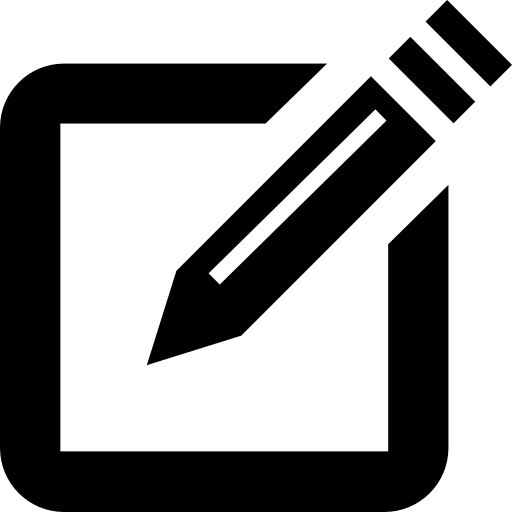
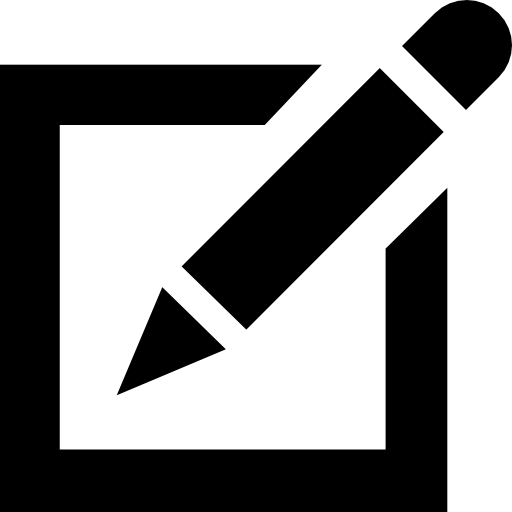
some changes

diff --git a/html/playgroundLayer/profile.html b/html/playgroundLayer/profile.html
@@ -8,10 +8,10 @@
     <link rel="preconnect" href="https://fonts.gstatic.com" crossorigin>
     <link href="https://fonts.googleapis.com/css2?family=Roboto:wght@300;400&display=swap" rel="stylesheet">
     <link rel="stylesheet" href="../../css/index.css">
-    <script src="../../js/methods.js"></script>
+    <script src="../../js/profile.js"></script>
     <title>Profile</title>
 </head>
-<body onload="loadContent()">
+<body>
     <center>
         <div class="navBox">
             <img class="navImg" src="../../img/comp_logo.png" alt="">
@@ -38,8 +38,12 @@
         </div>
         <center>
             <div class="editUser">
-                <button class="userInfoButton" onclick="makeUserInfoEditable()">Edit</button>
-                <button class="userInfoButton" onclick="makeUserInfoUneditable()">Save</button>
+                <button id="editButton" class="userInfoButton" onclick="makeUserInfoEditable()">
+                    <img src="../../img/edit.png" class="imgEditUser" alt="">
+                </button>
+                <button id="saveButton" class="userInfoButton" onclick="makeUserInfoUneditable()">
+                    <img src="../../img/save.png" class="imgEditUser" alt="">
+                </button>
             </div>
         </center>
         

diff --git a/js/profile.js b/js/profile.js
@@ -1,0 +1,21 @@
+window.onload = function onloadDoc() {
+    document.getElementById("saveButton").disabled = true;
+}
+
+function makeUserInfoEditable() {
+    document.getElementById("email").contentEditable = "true";
+    document.getElementById("username").contentEditable = "true";
+    document.getElementById("class").contentEditable = "true";
+    document.getElementById("points").contentEditable = "true";
+    document.getElementById("saveButton").disabled = false;
+    document.getElementById("editButton").disabled = true;
+}
+
+function makeUserInfoUneditable() {
+    document.getElementById("email").contentEditable = "false";
+    document.getElementById("username").contentEditable = "false";
+    document.getElementById("class").contentEditable = "false";
+    document.getElementById("points").contentEditable = "false";
+    document.getElementById("saveButton").disabled = true;
+    document.getElementById("editButton").disabled = false;
+}

diff --git a/css/index.css b/css/index.css
@@ -194,20 +194,13 @@ html {
     }
 
     .userInfoButton {
-        margin-top: 20px;
-        margin-left: 0px;
-        margin-right: 0px;
-        margin-bottom: 20px;
-        font-size: 5vw;
-        text-align: center;
-        background-color: darkblue;
-        color: white;
-        border: 0;
-        border-radius: 40px;
-        padding-top: 2%;
-        padding-bottom: 2%;
-        padding-left: 10%;
-        padding-right: 10%;
+        margin-top: 1vw;
+        margin-bottom: 1vw;
+        background-color: transparent;
+    }
+
+    .userInfoButton:disabled {
+        opacity: 0.3;
     }
   }
 
@@ -216,7 +209,6 @@ body {
     background-size: cover;                     
     background-repeat: no-repeat;
     background-position: center center;
-    height: 100%;
 }
 
 .checkBox {

diff --git a/js/methods.js b/js/methods.js
@@ -20,17 +20,3 @@ function switchVisible() {
 function showDiv() {
     document.getElementById("pwdReset").style.visibility = "visible";
 }
-
-function makeUserInfoEditable() {
-    document.getElementById("email").contentEditable = "true";
-    document.getElementById("username").contentEditable = "true";
-    document.getElementById("class").contentEditable = "true";
-    document.getElementById("points").contentEditable = "true";
-}
-
-function makeUserInfoUneditable() {
-    document.getElementById("email").contentEditable = "false";
-    document.getElementById("username").contentEditable = "false";
-    document.getElementById("class").contentEditable = "false";
-    document.getElementById("points").contentEditable = "false";
-}
